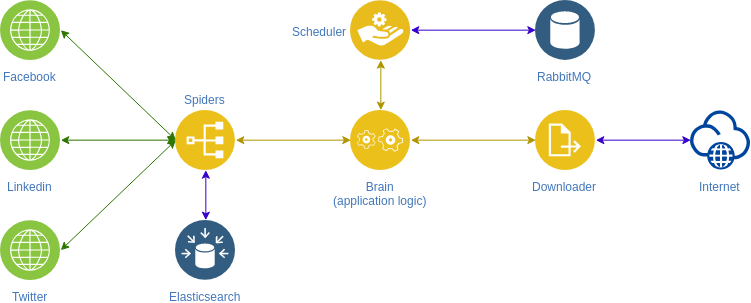
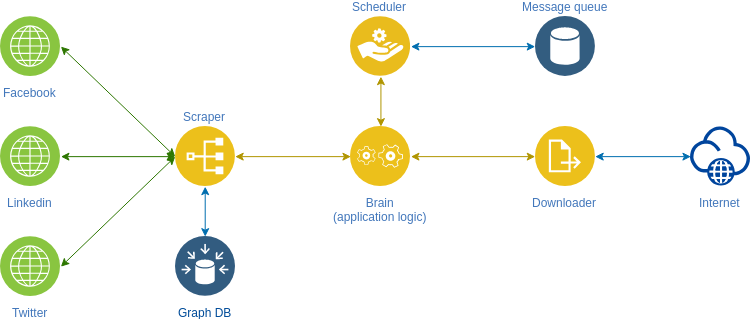
doc + crawler.storage

diff --git a/crawler/core/scraper.py b/crawler/core/scraper.py
@@ -14,9 +14,13 @@ from twisted.internet import defer
 from twisted.internet import task
 from twisted.internet import reactor
 from crawler.http import Request
+from crawler.storage import Database
+from crawler.storage.schema import Relation
+
+"""
 from crawler.core import Outcome
 from crawler.core import OutcomeManager
-
+"""
 logger = logging.getLogger('sna')
 
 
@@ -28,11 +32,11 @@ class Scraper():
         self.queue = deque()
         self.queue_in_progress = set()
         self.crawler = crawler
-        self.outcomeManager = OutcomeManager()
+        self.database = Database()
 
     def start(self, spider):
         self.spider = spider
-        self.outcomeManager.start(spider)
+        self.database.start()
 
     def is_busy(self):
         if len(self.queue) > self.max_concurency:
@@ -128,9 +132,9 @@ class Scraper():
         if isinstance(output, Request):
             logger.debug(f"SCRAPER got request from spider: {output.url}")
             self.crawler.brain.crawl(output)
-        elif isinstance(output, Outcome):
-            logger.debug(f"SCRAPER got outcome for request: {request.url}")
-            self.outcomeManager.store(output)
+        elif isinstance(output, Relation):
+            logger.debug(f"SCRAPER got Relation for request: {request.url}")
+            self.database.store_relation(output)          
         elif output is None:
             logger.info("SCRAPER got EMPTY request from spider")
         else:

diff --git a/crawler/spiders/Facebook/facebook.py b/crawler/spiders/Facebook/facebook.py
@@ -12,7 +12,7 @@ from crawler.spiders import ISpider
 from crawler.http import Request
 from crawler.utils import open_page
 from crawler.spiders.Facebook import albums, wall
-from crawler.core import Outcome
+from crawler.storage.schema import Relation
 
 logger = logging.getLogger('sna')
 
@@ -107,19 +107,18 @@ class Facebook(ISpider):
                                    for i in life_events]
             for req in self.extract_user_data(res, data):
                 yield req
-        yield Request(f'https://m.facebook.com/{userID}', callback=extract_data, meta={"user": userID})
-
+        #yield Request(f'https://m.facebook.com/{userID}', callback=extract_data, meta={"user": userID})
+        yield Relation("from", "like", "to")
     def extract_user_data(self, response, profile_data):
         # yield Request(f'https://m.facebook.com/{userID}/friends',
         # callback=self.parse_friends_page)
-        yield Outcome("salut")
-        """
+
         if profile_data['timeline_link']:
             yield Request('https://mbasic.facebook.com/'  + profile_data['timeline_link'], callback=wall.extract_posts_data, meta=response.meta)
-
+        
         if profile_data['photos_link']:
             yield Request('https://m.facebook.com' + profile_data['photos_link'], callback=albums.extract_albums_data, meta=response.meta)
-        """
+        
     """
     def parse_friends_page(self, res):
         def extract_friends(page):

diff --git a/crawler/storage/graphDB.py b/crawler/storage/graphDB.py
@@ -7,24 +7,21 @@
 # ------------------------------------------------------------
 
 import logging
+from neo4j import GraphDatabase
+from crawler import config
 
 logger = logging.getLogger('sna')
 
 
-class Outcome():
-    def __init__(self, data, request=None):
-        self.data = data
-        self.request = request
-
-class OutcomeManager():
+class GraphDB():
     def __init__(self):
-        self.spider = None
-
-    def start(self, spider):
-        self.spider = spider
-
-    def store(self, outcome):
-        logger.info("OutcomeManager store()")
+        driver = GraphDatabase.driver(config.NEO4J_CREDENTIALS[0], auth=(config.NEO4J_CREDENTIALS[1], config.NEO4J_CREDENTIALS[2]))
+        self.session = driver.session()
+        logger.info("New GraphDB")
+    
+    def store(self, relation):
+        print("----------- ", relation)
 
     def close(self):
-        pass
+        self.session.close()
+        logger.info("close GraphDB")        

diff --git a/crawler/storage/database.py b/crawler/storage/database.py
@@ -1,0 +1,27 @@
+# ------------------------------------------------------------
+# "THE BEERWARE LICENSE" (Revision 42):
+# louis@jurczyk.fr wrote this code. As long as you retain this
+# notice, you can do whatever you want with this stuff. If we
+# meet someday, and you think this stuff is worth it, you can
+# buy me a beer in return. Louis Jurczyk
+# ------------------------------------------------------------
+
+import logging
+from crawler.storage import GraphDB
+logger = logging.getLogger('sna')
+
+
+class Database():
+    def __init__(self):
+        logger.info("New Database")
+        self.graphDB = GraphDB()
+
+    def start(self):
+        logger.info("Start Database")    
+
+    def store_relation(self, relation):
+        self.graphDB.store(relation)
+
+    def close(self):
+        logger.info("Stop Database")
+        self.graphDB.stop()

diff --git a/crawler/storage/schema/relation.py b/crawler/storage/schema/relation.py
@@ -1,0 +1,27 @@
+# ------------------------------------------------------------
+# "THE BEERWARE LICENSE" (Revision 42):
+# louis@jurczyk.fr wrote this code. As long as you retain this
+# notice, you can do whatever you want with this stuff. If we
+# meet someday, and you think this stuff is worth it, you can
+# buy me a beer in return. Louis Jurczyk
+# ------------------------------------------------------------
+
+import logging
+from crawler import config
+
+logger = logging.getLogger('sna')
+
+
+class User():
+    def __init__(self, data):
+        self.data = data
+        print("NEW USER WITH DATA", data)
+
+class Relation():
+    def __init__(self, _from, relation, to):
+        self._from = _from
+        self._relation = relation
+        self._to = to
+
+    def __str__(self):
+    	return f"{self._from} -- {self._relation} --> {self._to}"

diff --git a/crawler/spiders/Facebook/albums.py b/crawler/spiders/Facebook/albums.py
@@ -8,7 +8,6 @@
 
 from crawler.http import Request
 from crawler.utils import open_page
-from crawler.core import Outcome
 
 
 def extract_likes(response):
@@ -18,7 +17,7 @@ def extract_likes(response):
             if like.text:
                 # TODO: store result
                 #print("++++", response.meta, like.text, like.attrib["href"])
-                yield Outcome(response.meta)
+                pass
             pass
         see_more = response.body.xpath('//li/table/tbody/tr/td/div/a')
         if see_more:

diff --git a/crawler/storage/schema/__init__.py b/crawler/storage/schema/__init__.py
@@ -6,6 +6,5 @@
 # buy me a beer in return. Louis Jurczyk
 # ------------------------------------------------------------
 
-from crawler.core.scraper import Scraper
-from crawler.core.scheduler import Scheduler
-from crawler.core.downloader import Downloader
+from crawler.storage.schema.relation import Relation
+from crawler.storage.schema.relation import User

diff --git a/crawler/storage/__init__.py b/crawler/storage/__init__.py
@@ -6,6 +6,5 @@
 # buy me a beer in return. Louis Jurczyk
 # ------------------------------------------------------------
 
-from crawler.core.scraper import Scraper
-from crawler.core.scheduler import Scheduler
-from crawler.core.downloader import Downloader
+from crawler.storage.graphDB import GraphDB
+from crawler.storage.database import Database

diff --git a/crawler/spiders/Facebook/wall.py b/crawler/spiders/Facebook/wall.py
@@ -8,7 +8,6 @@
 
 from crawler.http import Request
 from crawler.utils import open_page
-from crawler.core import Outcome
 
 
 def extract_likes(response):

diff --git a/README.md b/README.md
@@ -1,2 +1,4 @@
 # Social Network Analysis
 ![Image not found](https://github.com/jurelou/SNA/blob/master/docs/architecture.png  "Architecture")
+
+![Image not found](https://github.com/jurelou/SNA/blob/master/docs/tasks.png  "Tasks")
